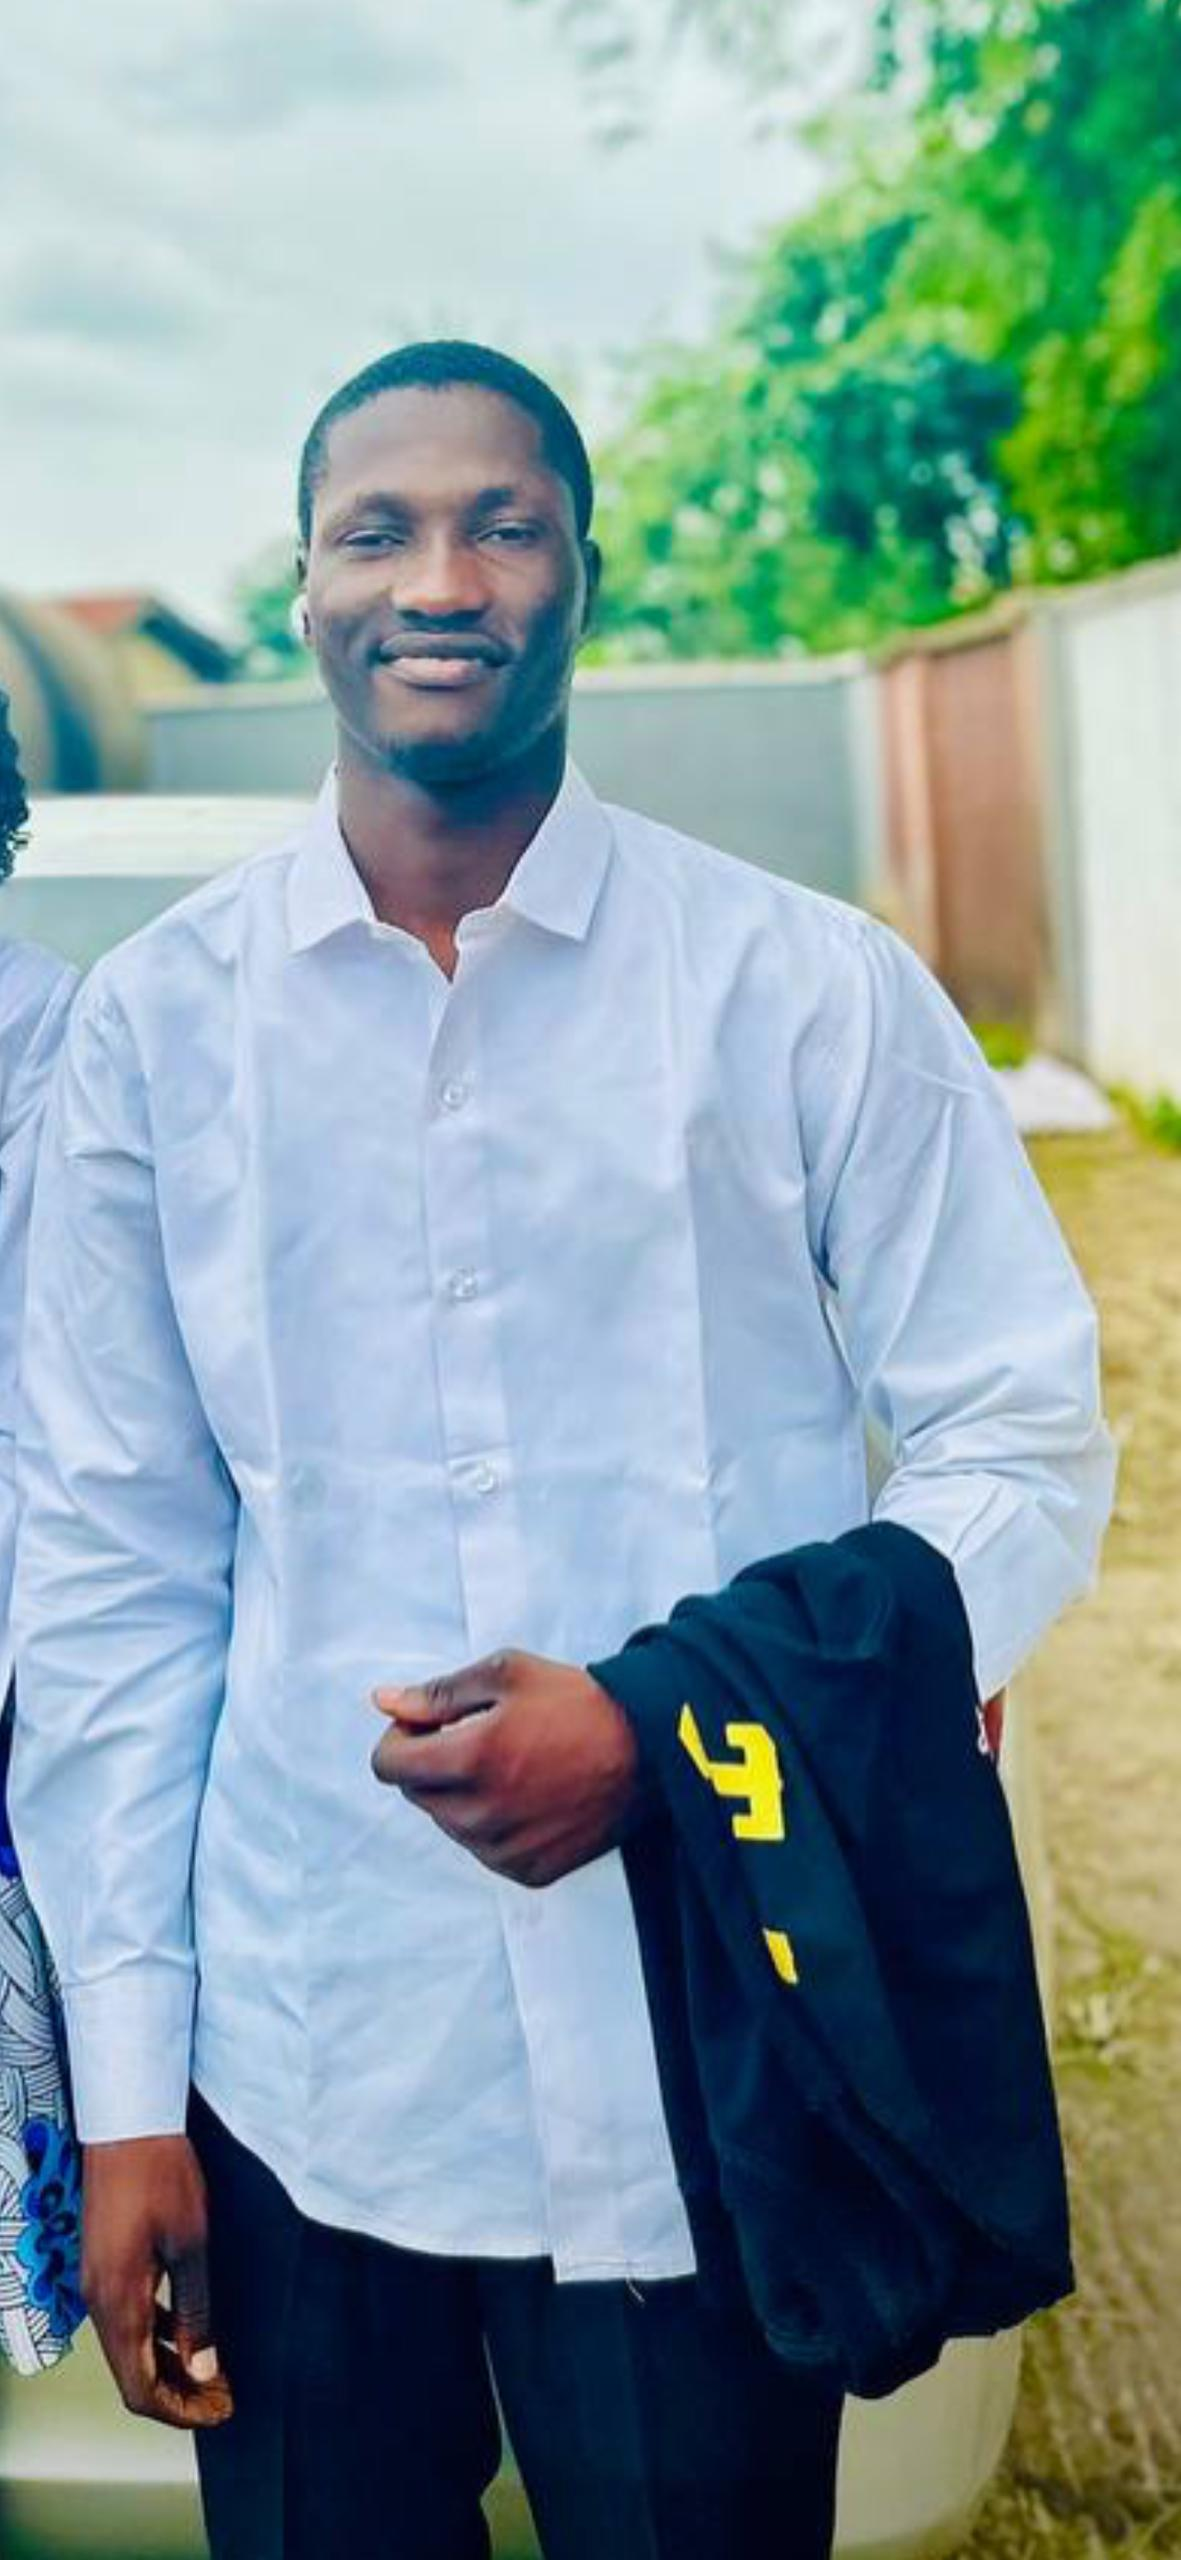
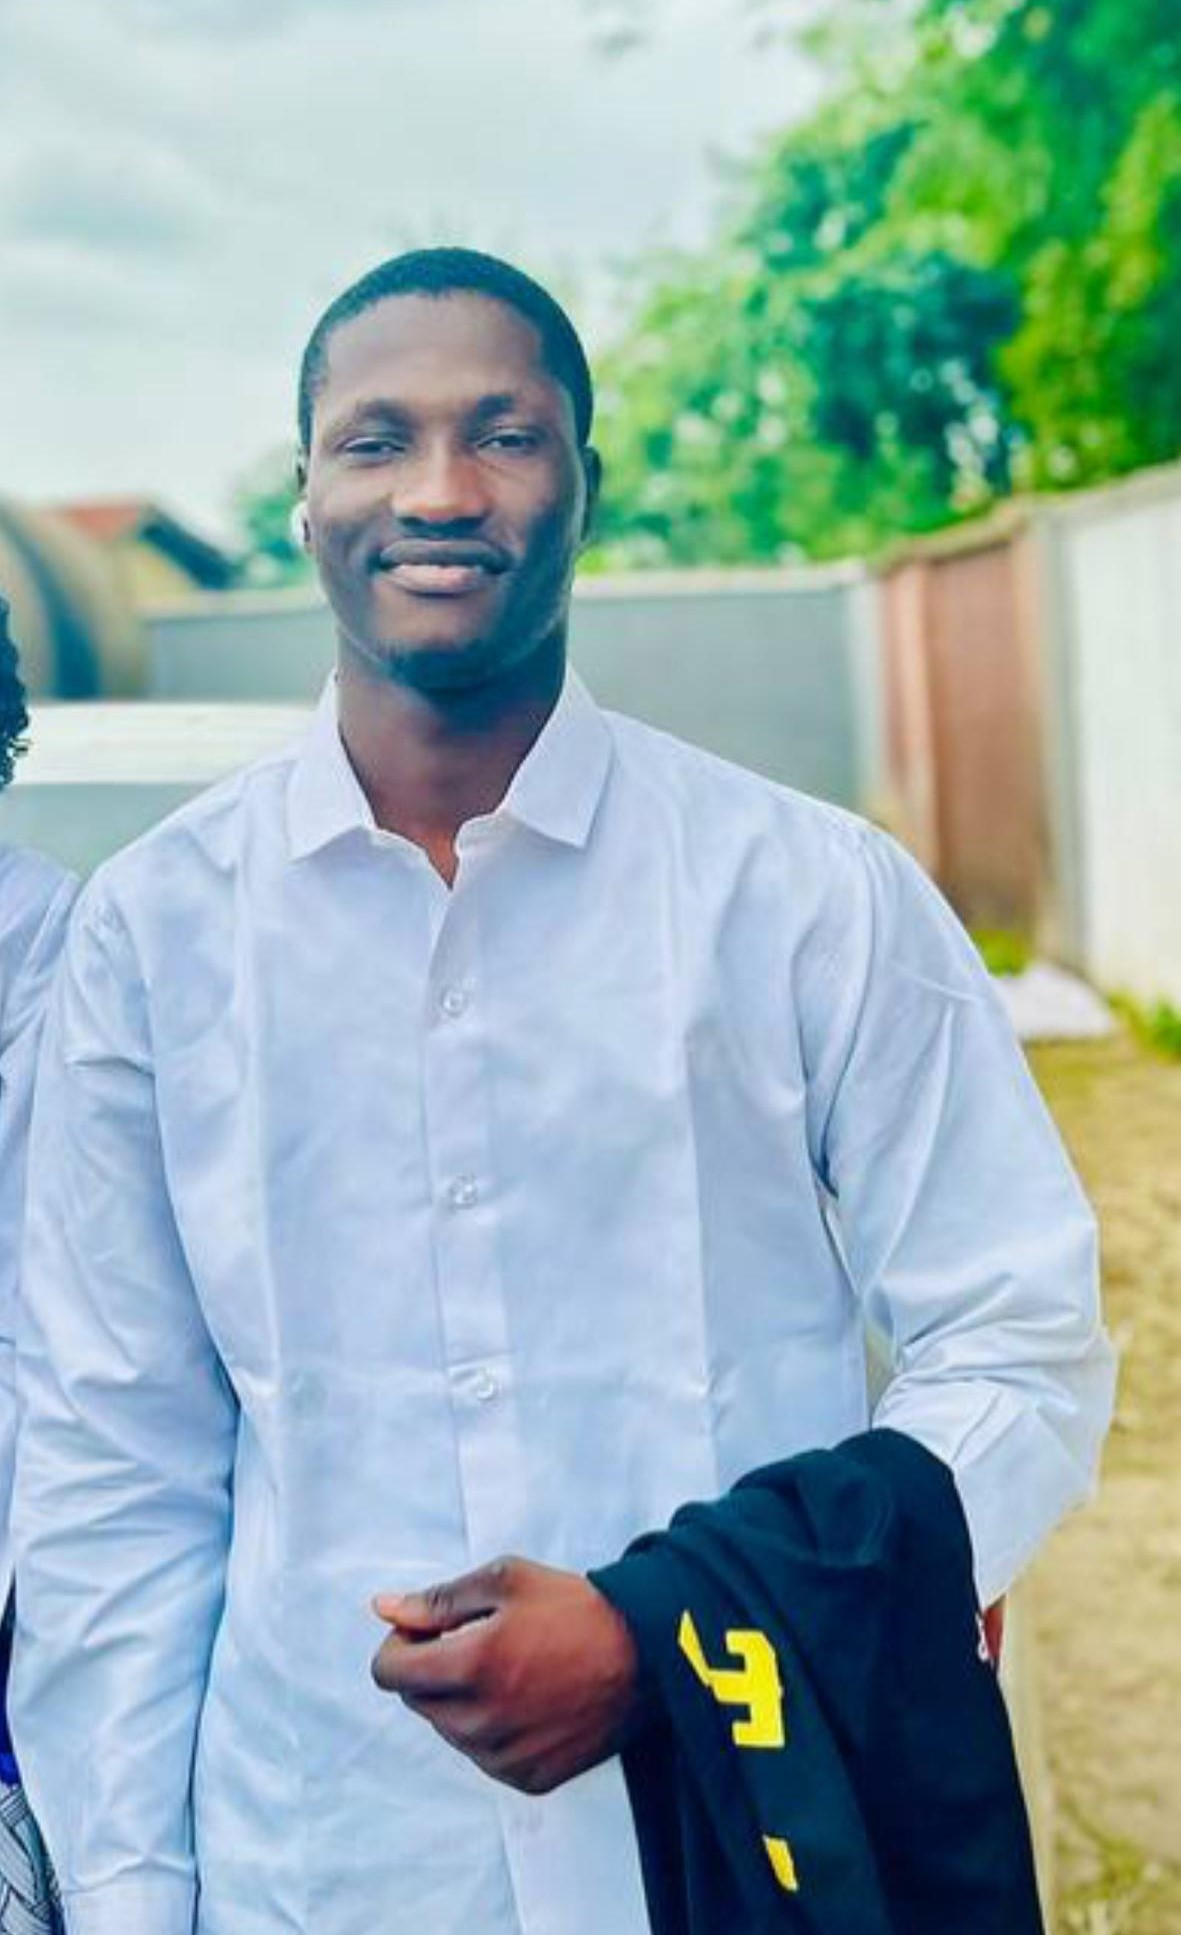
picture change

diff --git a/index.html b/index.html
@@ -79,7 +79,7 @@
                   <div class="row">
                     <div class="col-sm-6 col-md-5">
                       <div class="about-img">
-                        <img src="assets/img/SHEPHERD.jpeg" class="img-fluid rounded b-shadow-a" alt="">
+                        <img src="assets/img/ecomsheperd.jpeg" class="img-fluid rounded b-shadow-a" alt="">
                       </div>
                     </div>
                     <div class="col-sm-6 col-md-7">
